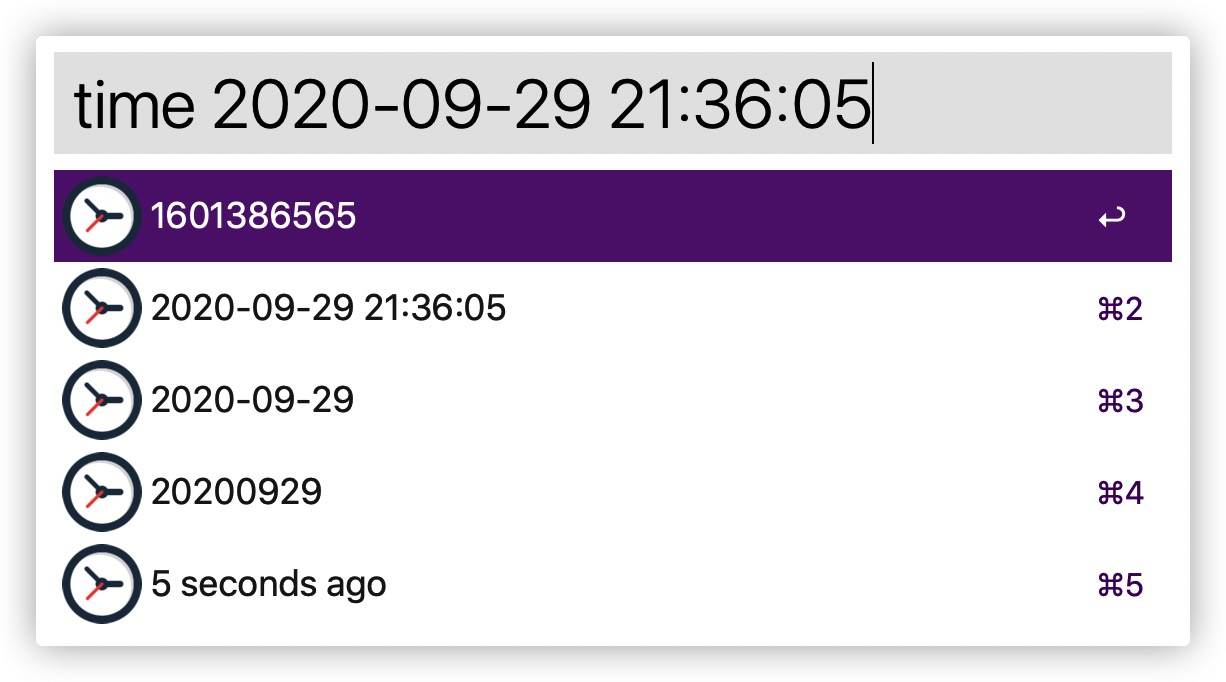
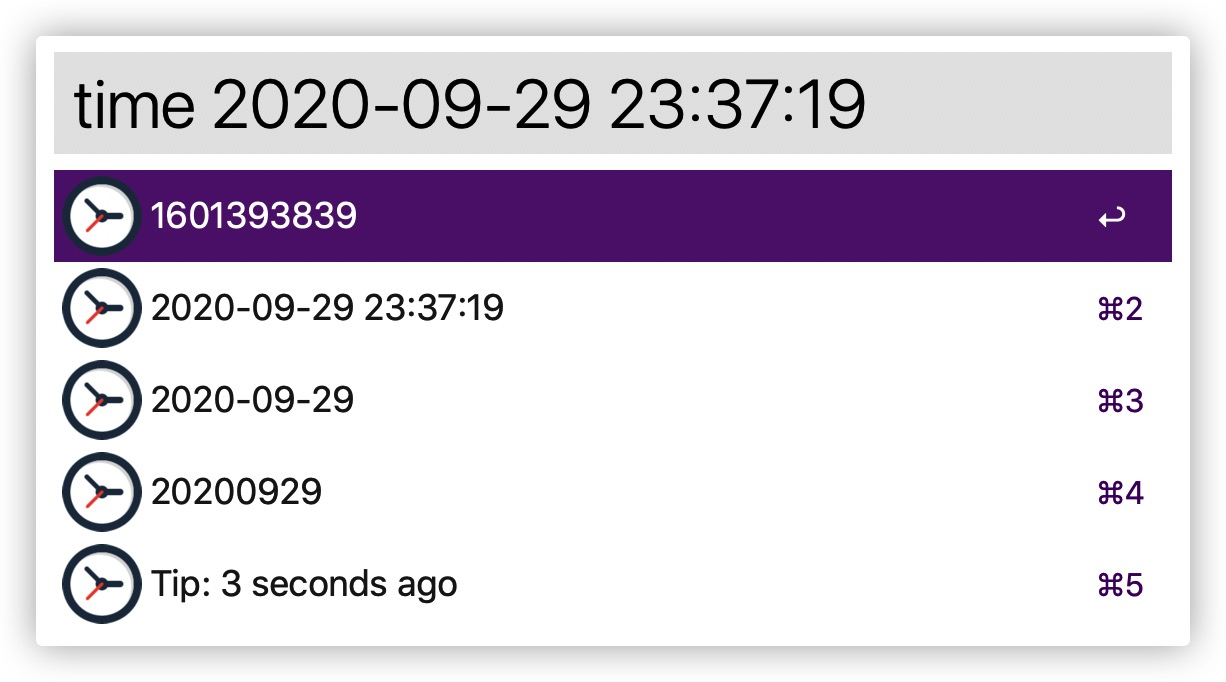
change the words

diff --git a/src/Time.php b/src/Time.php
@@ -8,8 +8,9 @@
 
 class Time {
     public function __construct() {
-        ini_set('date.timezone','Asia/Shanghai');
+        //ini_set('date.timezone','Asia/Shanghai');
     }
+
     public function deal($query) {
         $query = trim($query);
 
@@ -388,37 +389,37 @@ class Time {
 
         if($year >= 1) {
             $list[] = array(
-                'title' => $time > $timestamp ? "{$year} years ago" : "in {$year} years",
+                'title' => $time > $timestamp ? "Tip: {$year} years ago" : "Tip: in {$year} years",
                 'arg' => $year,
             );
         } else if($month >= 1) {
             $list[] = array(
-                'title' => $time > $timestamp ? "{$month} months ago" : "in {$month} months",
+                'title' => $time > $timestamp ? "Tip: {$month} months ago" : "Tip: in {$month} months",
                 'arg' => $month,
             );
         } else if($week >= 1) {
             $list[] = array(
-                'title' => $time > $timestamp ? "{$week} weeks ago" : "in {$week} weeks",
+                'title' => $time > $timestamp ? "Tip: {$week} weeks ago" : "Tip: in {$week} weeks",
                 'arg' => $week,
             );
         } else if($day >= 1) {
             $list[] = array(
-                'title' => $time > $timestamp ? "{$day} days ago" : "in {$day} days",
+                'title' => $time > $timestamp ? "Tip: {$day} days ago" : "Tip: in {$day} days",
                 'arg' => $day,
             );
         } else if($hour >= 1) {
             $list[] = array(
-                'title' => $time > $timestamp ? "{$hour} hours ago" : "in {$hour} hours",
+                'title' => $time > $timestamp ? "Tip: {$hour} hours ago" : "Tip: in {$hour} hours",
                 'arg' => $hour,
             );
         } else if($minute >= 1) {
             $list[] = array(
-                'title' => $time > $timestamp ? "{$minute} minutes ago" : "in {$minute} minutes",
+                'title' => $time > $timestamp ? "Tip: {$minute} minutes ago" : "Tip: in {$minute} minutes",
                 'arg' => $minute,
             );
         } else {
             $list[] = array(
-                'title' => $time > $timestamp ? "{$second} seconds ago" : "in {$second} seconds",
+                'title' => $time > $timestamp ? "Tip: {$second} seconds ago" : "Tip: in {$second} seconds",
                 'arg' => $second,
             );
         }
